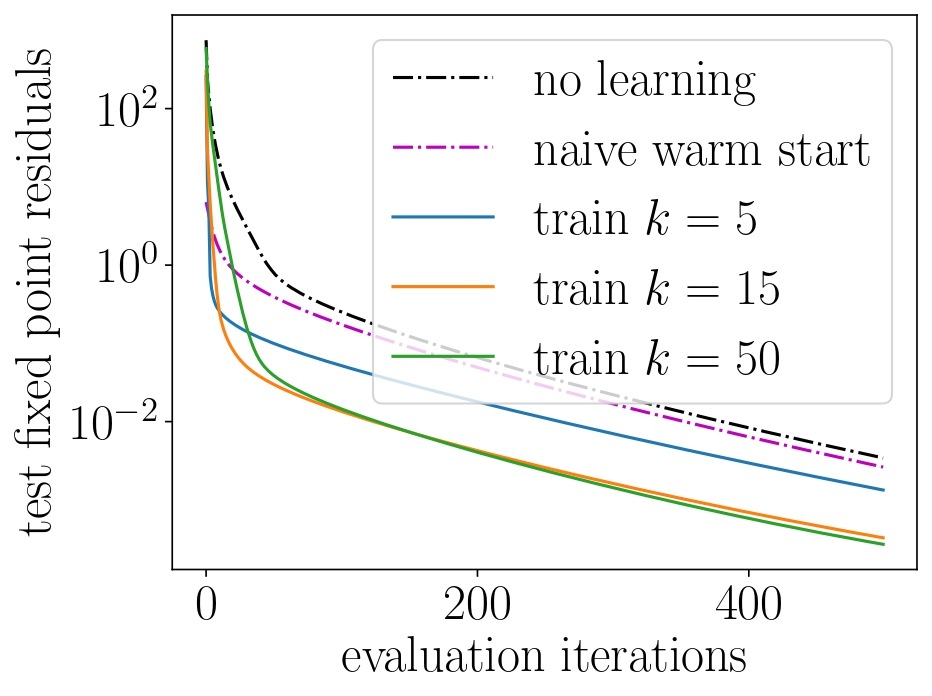
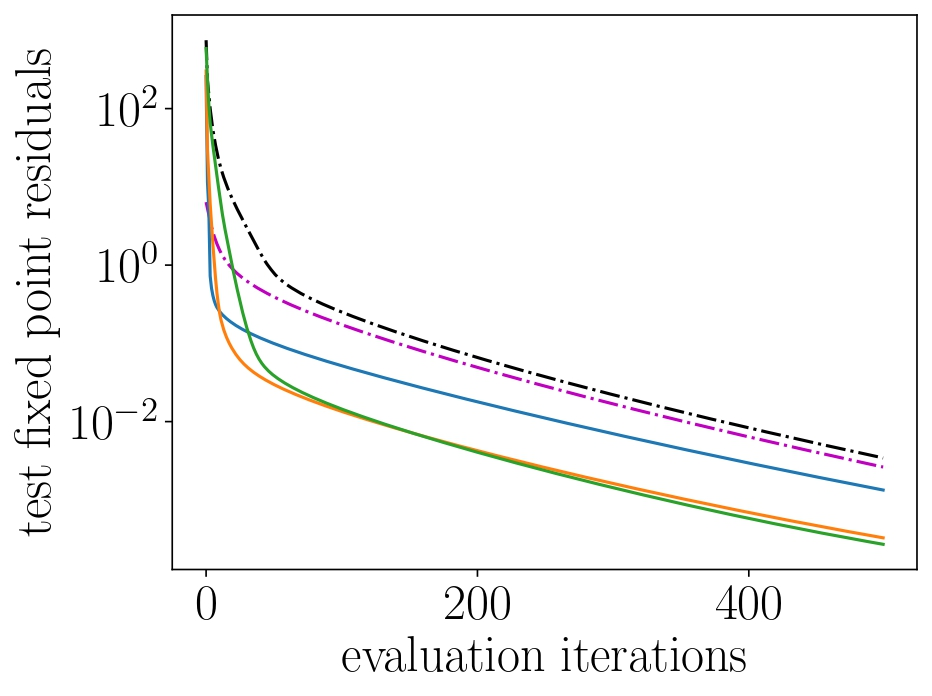
new legend

diff --git a/_pages/publications.md b/_pages/publications.md
@@ -117,7 +117,8 @@ iterations required to obtain high-quality solutions.
 
 
 <div id="synopsis_e2e_qp" style="text-align: justify; display: none; color: black; background-color: white" markdown="1">
-<img src="https://www.do-mpc.com/en/latest/_images/oscillating_masses.png" />
+<img src="https://www.do-mpc.com/en/latest/_images/oscillating_masses.png" width="500" 
+     height="600" />
 Consider a system of many masses and springs where the masses have actuators that we can control. The goal is to control the system so that it tracks a reference trajectory. Specifically, we aim to solve the convex optimization problem,
 
 <img src="{{rajivsambharya.github.io}}/images/osc_mass_prob.jpg" width="400" 
@@ -127,7 +128,8 @@ where the $x_t$'s are the states and the $u_t$'s are the controls.
 
 In the model predictive control paradigm, we solve this problem for some horizon length and implement the first control, $u_0$. After this, we resolve the problem where only the initial state parameter, $\theta = x_\{\rm{init}\}$ changes. Since we need to solve this problem many times, we will have an abundance of data to use. Standard optimization techniques don't capitalize on this data. In our work, we learn a good warm-start for Douglas-Rachford (DR) splitting from this data.
 
-<img src="{{rajivsambharya.github.io}}/images/learning_framework_diagram.jpg" />
+<img src="{{rajivsambharya.github.io}}/images/learning_framework_diagram.jpg" width="500" 
+     height="600"/>
 Left: standard DR splitting which maps parameter $\theta$ and initialization $z^0$ to an approximate solution $z^k(\theta)$. 
 Right: Proposed learning framework consisting of two modules.
 The first module is the NN block which maps the parameter $\theta$ to a warm-start $z^k_{\mathcal{W}}(\theta)$. 
@@ -138,6 +140,12 @@ We backpropagate from the loss $\ell_{\theta}(z^k_{\mathcal{W}}(\theta))$ throug
 
 <img src="{{rajivsambharya.github.io}}/images/osc_mass_eval.jpg" width="500" 
      height="600"/>
+    \cblock{0}{0}{0} no warm-start \hspace{1mm}
+    \cblock{191}{0}{191} nearest neighbor warm-start \hspace{1mm}
+    learned warm-start $k=$\{\hspace{-1mm}\cblock{31}{119}{180} $5$
+        \cblock{255}{127}{14} $15$
+        \cblock{44}{160}{44} $50$\}\hspace*{-2mm}
+        
 We plot the test fixed point residuals for different warm-starts of DR splitting.
 We train our architecture with $k=5,15,$ and $50$ DR iterations.
 We compare our results against a random initialization (black) and against warm-starting DR splitting with the nearest neighbor from the train set (magenta).
